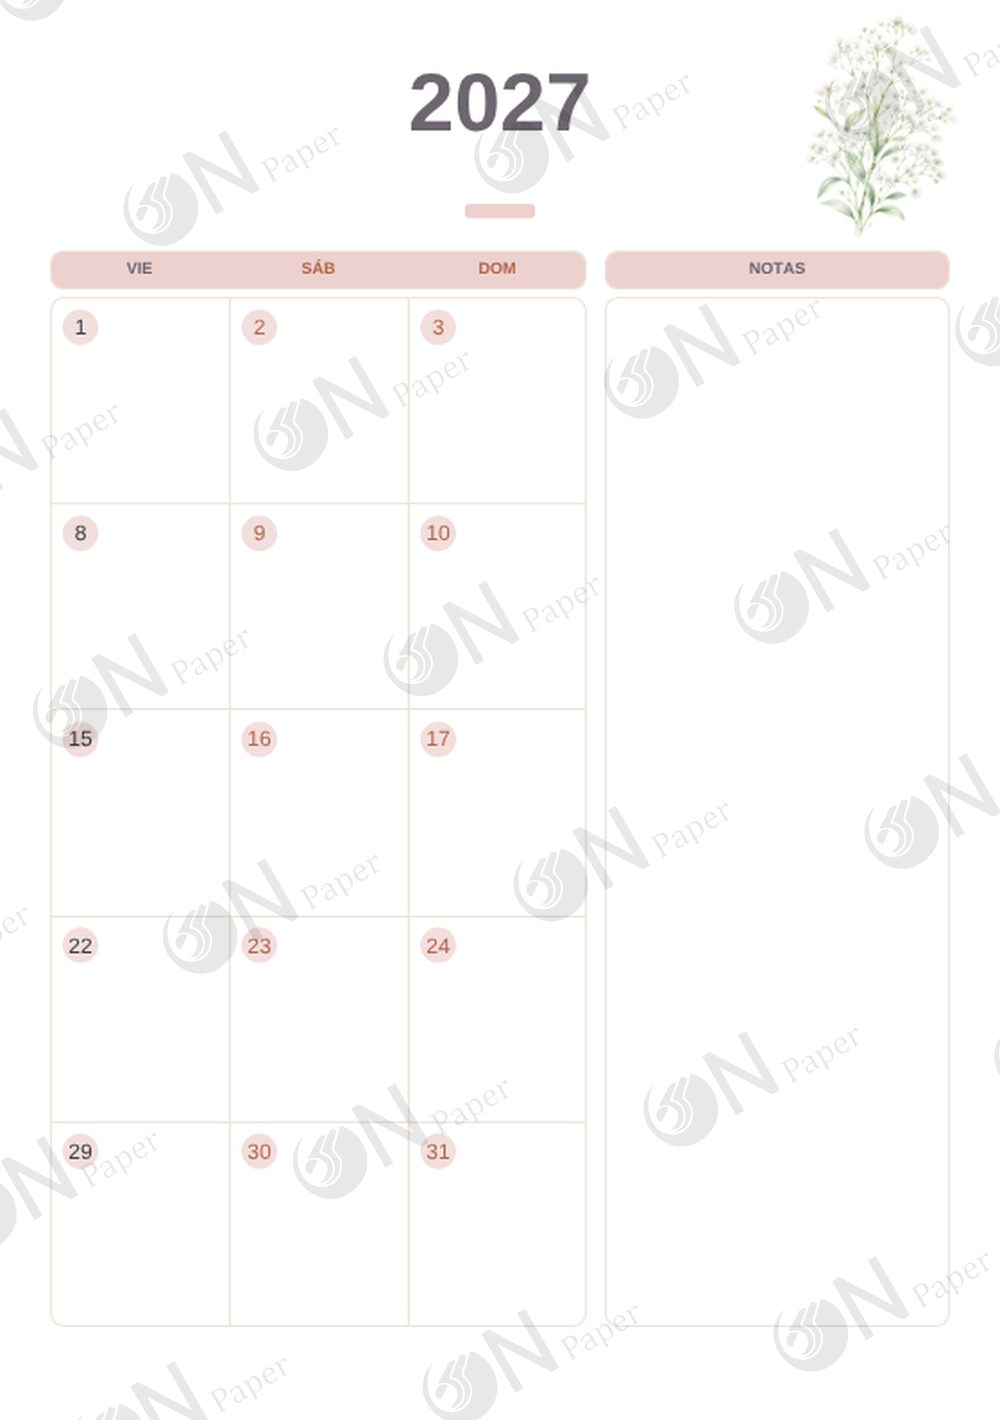
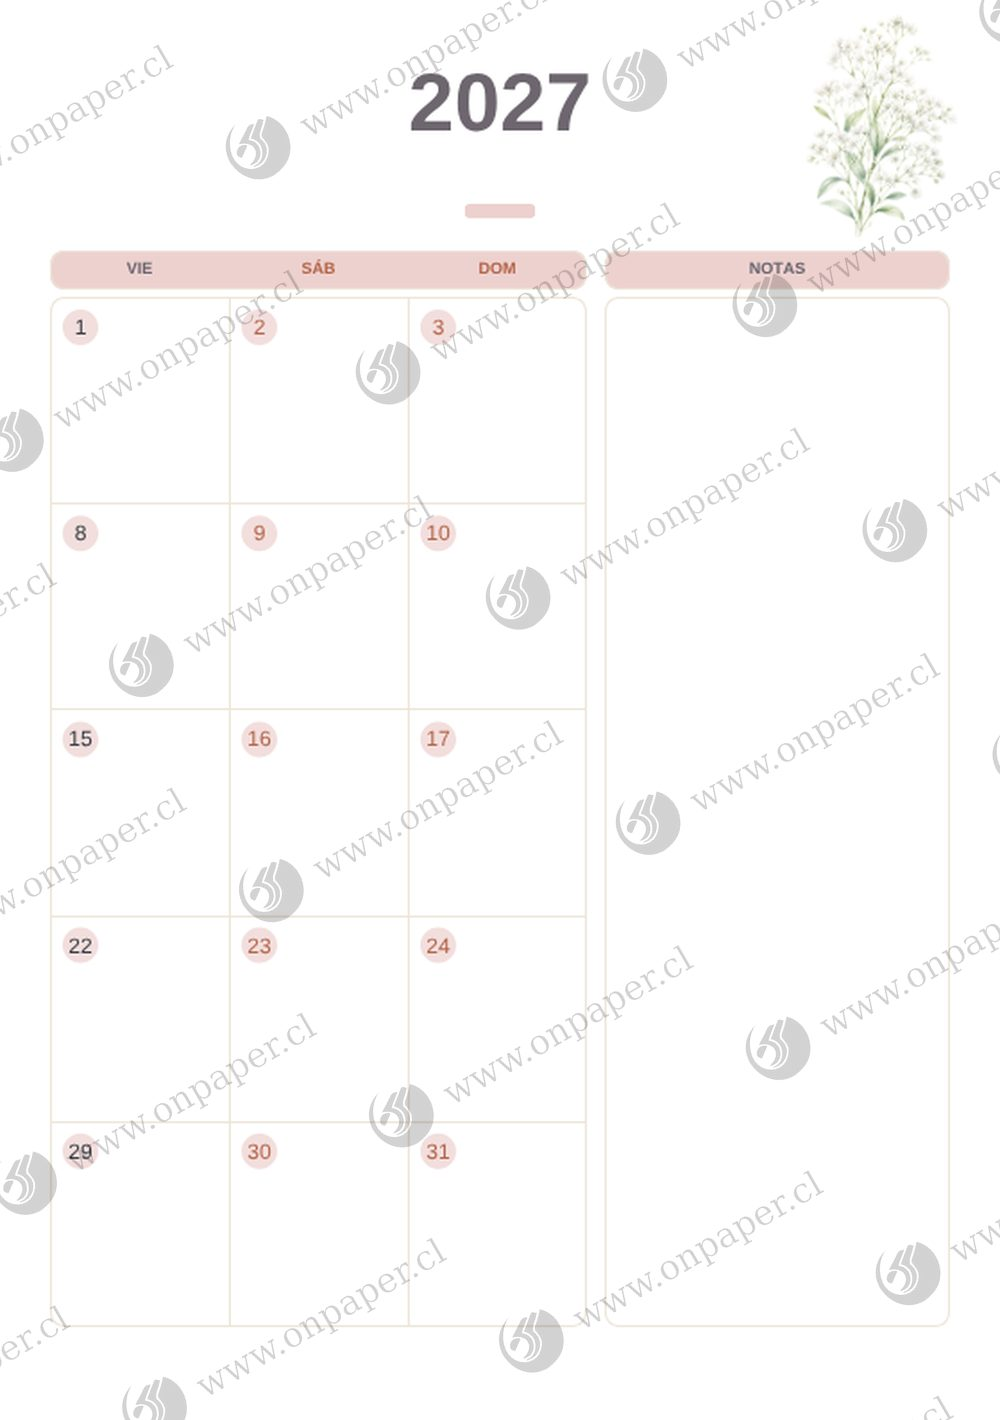
Marca de agua con la URL de la tienda
Claude-Session: https://claude.ai/code/session_01NR3goKnwanuTgXs2HiX2xE

diff --git a/flores/index.html b/flores/index.html
@@ -286,7 +286,7 @@ body.client .ficha .book,body.client .pen,body.client .cup{display:none}
   <div class="tray in" id="tray"></div>
 </section>
 
-<script>window.__PUBLIC={"title": "Flores", "notes": {}, "pages": [{"id": "p20-q2of0", "src": "img/001.jpg?v=4"}, {"id": "p14-zzboj", "src": "img/002.jpg?v=4"}, {"id": "p13-rn3ye", "src": "img/003.jpg?v=4"}, {"id": "p16-xvurl", "src": "img/004.jpg?v=4"}, {"id": "p15-4luyk", "src": "img/005.jpg?v=4"}, {"id": "p18-lfjm7", "src": "img/006.jpg?v=4"}, {"id": "p17-xhesk", "src": "img/007.jpg?v=4"}, {"id": "p20-cvhhu", "src": "img/008.jpg?v=4"}, {"id": "p19-v8hxq", "src": "img/009.jpg?v=4"}, {"id": "p26-65x96", "src": "img/010.jpg?v=4"}, {"id": "p25-33e8s", "src": "img/011.jpg?v=4"}, {"id": "p24-bmvf7", "src": "img/012.jpg?v=4"}, {"id": "p23-mi87c", "src": "img/013.jpg?v=4"}, {"id": "p22-a6say", "src": "img/014.jpg?v=4"}, {"id": "p21-v03nh", "src": "img/015.jpg?v=4"}, {"id": "p28-9dkzz", "src": "img/016.jpg?v=4"}, {"id": "p27-c5pj0", "src": "img/017.jpg?v=4"}, {"id": "p36-m0oqd", "src": "img/018.jpg?v=4"}, {"id": "p35-6h7ae", "src": "img/019.jpg?v=4"}, {"id": "p34-b78h6", "src": "img/020.jpg?v=4"}, {"id": "p33-gohas", "src": "img/021.jpg?v=4"}, {"id": "p32-t4ye0", "src": "img/022.jpg?v=4"}, {"id": "p31-axdhc", "src": "img/023.jpg?v=4"}, {"id": "p30-y5wr8", "src": "img/024.jpg?v=4"}, {"id": "p29-c38f4", "src": "img/025.jpg?v=4"}, {"id": "p13-r1eko", "src": "img/026.jpg?v=4"}], "wire": "blanco", "subtitle": "Vista de la agenda"};document.addEventListener("contextmenu",function(e){e.preventDefault()});document.addEventListener("dragstart",function(e){e.preventDefault()});</script>
+<script>window.__PUBLIC={"title": "Flores", "notes": {}, "pages": [{"id": "p20-q2of0", "src": "img/001.jpg?v=6"}, {"id": "p14-zzboj", "src": "img/002.jpg?v=6"}, {"id": "p13-rn3ye", "src": "img/003.jpg?v=6"}, {"id": "p16-xvurl", "src": "img/004.jpg?v=6"}, {"id": "p15-4luyk", "src": "img/005.jpg?v=6"}, {"id": "p18-lfjm7", "src": "img/006.jpg?v=6"}, {"id": "p17-xhesk", "src": "img/007.jpg?v=6"}, {"id": "p20-cvhhu", "src": "img/008.jpg?v=6"}, {"id": "p19-v8hxq", "src": "img/009.jpg?v=6"}, {"id": "p26-65x96", "src": "img/010.jpg?v=6"}, {"id": "p25-33e8s", "src": "img/011.jpg?v=6"}, {"id": "p24-bmvf7", "src": "img/012.jpg?v=6"}, {"id": "p23-mi87c", "src": "img/013.jpg?v=6"}, {"id": "p22-a6say", "src": "img/014.jpg?v=6"}, {"id": "p21-v03nh", "src": "img/015.jpg?v=6"}, {"id": "p28-9dkzz", "src": "img/016.jpg?v=6"}, {"id": "p27-c5pj0", "src": "img/017.jpg?v=6"}, {"id": "p36-m0oqd", "src": "img/018.jpg?v=6"}, {"id": "p35-6h7ae", "src": "img/019.jpg?v=6"}, {"id": "p34-b78h6", "src": "img/020.jpg?v=6"}, {"id": "p33-gohas", "src": "img/021.jpg?v=6"}, {"id": "p32-t4ye0", "src": "img/022.jpg?v=6"}, {"id": "p31-axdhc", "src": "img/023.jpg?v=6"}, {"id": "p30-y5wr8", "src": "img/024.jpg?v=6"}, {"id": "p29-c38f4", "src": "img/025.jpg?v=6"}, {"id": "p13-r1eko", "src": "img/026.jpg?v=6"}], "wire": "blanco", "subtitle": "Vista de la agenda"};document.addEventListener("contextmenu",function(e){e.preventDefault()});document.addEventListener("dragstart",function(e){e.preventDefault()});</script>
 <script>
 (function(){
   var $=function(s){return document.querySelector(s)};
